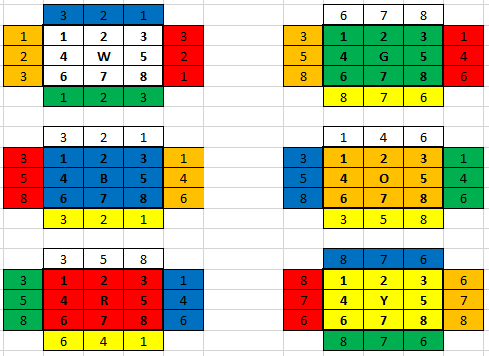
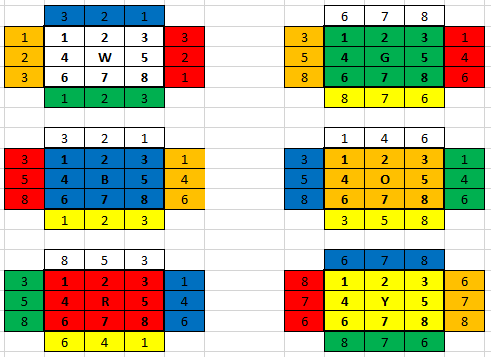
Test finished and last bug fixed on the method turnFaceRight

Changed region(s): [[0.0, 0.0, 1.0, 1.0]]

diff --git a/src/com/martdel/rubik/Cube.java b/src/com/martdel/rubik/Cube.java
@@ -78,12 +78,12 @@ public class Cube {
 			newFirstF1.setThree(redFace.getEight());
 			newFirstF1.setTwo(redFace.getFive());
 			newFirstF1.setOne(redFace.getThree());
-			newSecondF1.setOne(whiteFace.getOne());
+			newSecondF1.setOne(whiteFace.getThree());
 			newSecondF1.setFour(whiteFace.getTwo());
-			newSecondF1.setSix(whiteFace.getThree());
-			newThirdF1.setOne(orangeFace.getOne());
+			newSecondF1.setSix(whiteFace.getOne());
+			newThirdF1.setThree(orangeFace.getOne());
 			newThirdF1.setTwo(orangeFace.getFour());
-			newThirdF1.setThree(orangeFace.getSix());
+			newThirdF1.setOne(orangeFace.getSix());
 			newFourthF1.setEight(yellowFace.getThree());
 			newFourthF1.setFive(yellowFace.getTwo());
 			newFourthF1.setThree(yellowFace.getOne());
@@ -97,12 +97,12 @@ public class Cube {
 			Face newSecondF2 = copyFaceFrom(getBlueFace());
 			Face newThirdF2 = copyFaceFrom(getYellowFace());
 			Face newFourthF2 = copyFaceFrom(getGreenFace());
-			newFirstF2.setThree(greenFace.getEight());
+			newFirstF2.setEight(greenFace.getEight());
 			newFirstF2.setFive(greenFace.getFive());
-			newFirstF2.setEight(greenFace.getThree());
-			newSecondF2.setOne(whiteFace.getThree());
+			newFirstF2.setThree(greenFace.getThree());
+			newSecondF2.setOne(whiteFace.getEight());
 			newSecondF2.setFour(whiteFace.getFive());
-			newSecondF2.setSix(whiteFace.getEight());
+			newSecondF2.setSix(whiteFace.getThree());
 			newThirdF2.setOne(blueFace.getOne());
 			newThirdF2.setFour(blueFace.getFour());
 			newThirdF2.setSix(blueFace.getSix());
@@ -163,9 +163,9 @@ public class Cube {
 			Face newSecondF5 = copyFaceFrom(getOrangeFace());
 			Face newThirdF5 = copyFaceFrom(getGreenFace());
 			Face newFourthF5 = copyFaceFrom(getRedFace());
-			newFirstF5.setEight(redFace.getSix());
+			newFirstF5.setSix(redFace.getSix());
 			newFirstF5.setSeven(redFace.getSeven());
-			newFirstF5.setSix(redFace.getEight());
+			newFirstF5.setEight(redFace.getEight());
 			newSecondF5.setSix(blueFace.getSix());
 			newSecondF5.setSeven(blueFace.getSeven());
 			newSecondF5.setEight(blueFace.getEight());

diff --git a/src/com/martdel/rubik/Main.java b/src/com/martdel/rubik/Main.java
@@ -13,7 +13,7 @@ public class Main {
 	public static void main(String[] args) {
 		cube = new Cube();
 		askColor();
-		cube.turnFaceRight(cube.getWhiteFace(), 1);
+		cube.turnFaceRight(cube.getYellowFace(), 1);
 		System.out.println("--------------------");
 		test();
 	}
